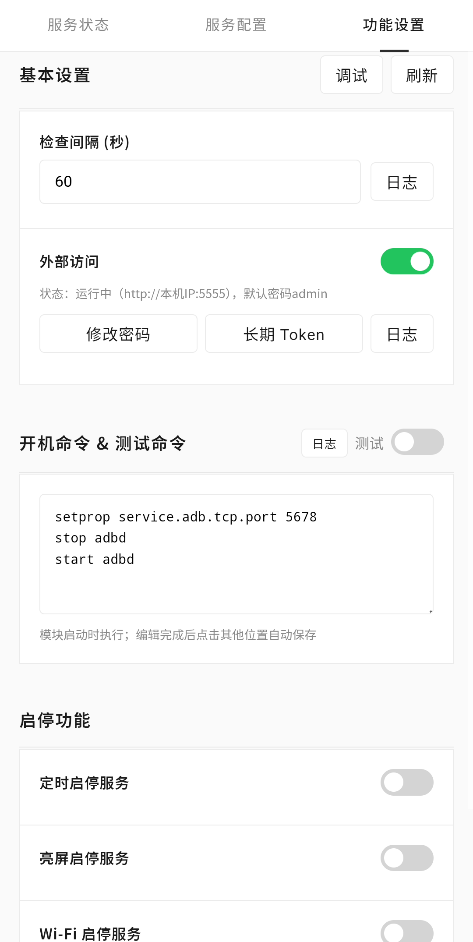
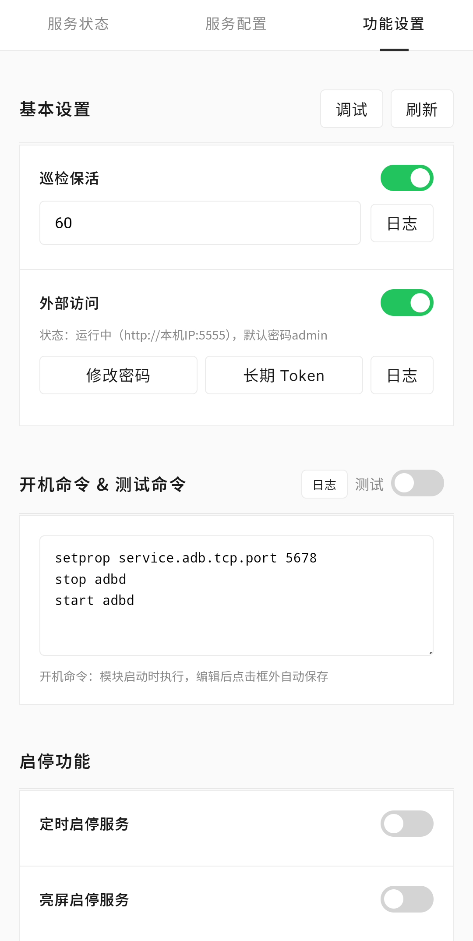
docs: 更新 README.md 和 CHANGELOG.md

diff --git a/README.md b/README.md
@@ -34,8 +34,8 @@
 | 服务状态 | 服务配置 | 功能设置|
 |---------|---------|---------|
 | ![服务状态](docs/images/01-status.png) | ![服务配置](docs/images/02-services.png ) |![功能设置](docs/images/03-settings.png)|
-| 启停服务 | 服务日志页 | 网页登录页|
-| ![启停服务](docs/images/04-start_stop.png) | ![服务日志页](docs/images/05-log.png ) |![网页登录页](docs/images/06-login.png)|
+| 命令执行/启停服务 | 服务日志页 | 网页登录页|
+| ![命令执行/启停服务](docs/images/04-start_stop.png) | ![服务日志页](docs/images/05-log.png ) |![网页登录页](docs/images/06-login.png)|
 </div>
 
 ### 两类服务
@@ -63,8 +63,8 @@
 >**优先级**：功能全开时（但不推荐），定时启停> 亮屏启停> Wi-Fi 启停>普通巡检
 - **定时启停服务**：按每日时间窗口服务全停，过时间窗后再恢复正常巡检
   - 停止时间~启动时间：选好自动保存；支持跨夜窗口（如停 22:00、启 07:00，该段时间内为停止窗口）
-- **亮屏启停服务**：亮屏解锁后恢复正常巡检，熄屏停止全部（可设锁屏白名单）
-  - 检测按10秒分片执行，以便亮屏解锁快速响应，锁屏判断间隔按分片休眠间隔
+- **亮屏启停服务**：亮屏解锁后执行亮屏白名单服务为空，恢复正常巡检，熄屏停止全部（可设锁屏白名单）
+  - 亮屏检测按10秒分片执行，以便亮屏解锁快速响应，锁屏判断间隔按分片休眠间隔
 - **Wi-Fi 启停服务**：打开开关后按所选分组启停，两组的选择的服务互斥
   - **连接组**：连上名单 Wi-Fi 时运行，离开即停止
   - **断开组**：离开名单 Wi-Fi 时运行，连上即停止
@@ -76,7 +76,7 @@
 ## WebUI 使用
 
 在 KernelSU 或 Apatch 等管理器 → 模块 →  点击打开 SvcHub → 进入 WebUI。页面可左右滑动查看，
->或开启外部访问（默认开启），访问 http://127.0.0.1:5555，默认密码 admin
+>Magisk 用户无Webui 开启外部访问（默认开启），访问 http://127.0.0.1:5555 默认密码 admin 即可
 
 ## 服务配置示例
 
@@ -94,7 +94,7 @@
 ### 二进制服务配置
 以 [Memos](https://github.com/usememos/memos) 为例，二进制服务默认工作目录 `/data/media/0/Server`，即外部存储目录 `/storage/emulated/0/Server`：
 - 在`Server` 文件夹加下创建个`memos`文件夹，将下载的`memos_0.xx.0_linux_arm64.tar.gz`解压获得可执行的`memos`放入该文件夹内
-- 相关二进制文件已设置可执行权限（`chmod +x ./memos`），本模块不提供对二进制文件权限修改，请自行处理。依赖的库文件和相关资源文件与二进制放在同一目录
+- 相关二进制文件已设置可执行权限（`chmod +x ./memos`）即将文件设权限为`755`，本模块不提供对二进制文件权限修改，请自行处理。并将依赖的库文件和相关资源文件与二进制放在同一目录
 - 启动命令填写`cd ./memos;./memos`，前面`cd ./xxx`是切换工作目录进入目录，后面`./xxx`是启动二进制文件
 - memos 启动后默认端口 8081 ，也可以加`--port 5230`指定端口 5230 ，其他参数请看官方文档。将8081填入端口输入框中即可在服务页打开跳转
 
@@ -113,8 +113,10 @@ node tools/mock-server.js reflash  # 改脚本后热更新文件
 ```
 
 - Wi-Fi 模拟：`curl "http://127.0.0.1:8090/__wifi?state=on&ssid=Home"`
-- 冷启动可带参数：`node tools/mock-server.js --wifi on --ssid Home`
-- shell命令依赖 Git Bash（mock-server 自动探测安装路径，尽量配置系统环境）
+  - 冷启动可带参数： `node tools/mock-server.js --wifi on --ssid Home`
+- 亮屏锁屏模拟：`curl "http://127.0.0.1:8090/__screen?screen=off&lock=lock"` 
+  - 其参数还可为`screen=on&lock=lock`亮屏未解锁或`screen=on&lock=unlock` 亮屏已解锁
+- shell命令依赖 Git Bash（mock-server 自动探测安装路径，尽量配置系统环境变量）
 
 ### 模块构建
 

diff --git a/CHANGELOG.md b/CHANGELOG.md
@@ -4,6 +4,23 @@
 
 ## [Unreleased]
 
+## [1.3.2] - 2026-09-29
+
+### Added
+
+- 巡检保活开关：关闭后仅停止周期巡检的自动拉起，出定时停止窗、亮屏解锁、Wi-Fi 条件满足时的服务恢复照常执行
+- 亮屏白名单：亮屏解锁后只启动白名单内的服务（留空则恢复 start 标签的服务）；锁屏仍停止全部（锁屏白名单除外）
+
+### Changed
+
+- Wi-Fi 分组与屏幕状态白名单的选择弹窗改为左右两栏，同功能互斥组中已选服务置灰不可再选，互斥关系一目了然
+- 定时窗、巡检、Wi-Fi、亮屏日志改为仅在状态变化时记录，并注明服务被拦截启动的真实原因，减少无效日志
+
+### Fixed
+
+- 修复选择弹窗中两组互斥服务可被同时选中、重复配置后反复启停的问题
+- 修复页面输入框自动保存后不能正确回显、开关按钮无保存提示的问题
+
 ## [1.3.1] - 2026-09-28
 
 ### Changed
